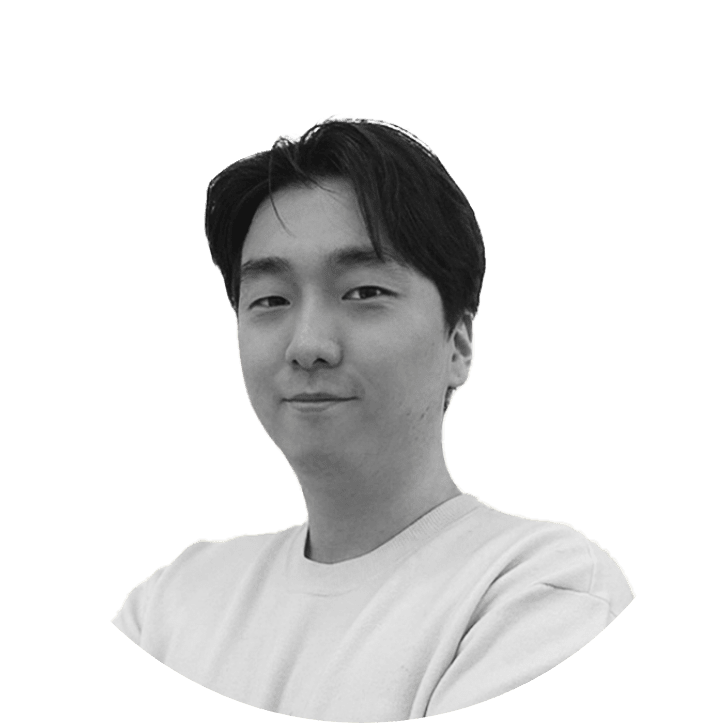
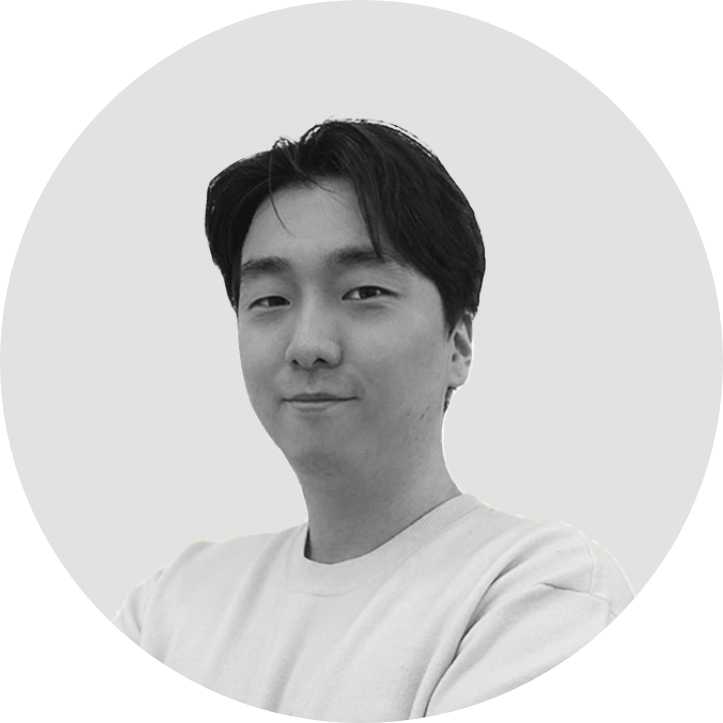
fix: 팀원 - 이미지 변경 / 중앙정렬 / 높이 변경

diff --git a/components/LandingPage/Body/Service/Service.tsx b/components/LandingPage/Body/Service/Service.tsx
@@ -86,7 +86,7 @@ export default function Service({ isPc }: Props) {
         </div>
       </div>
       <div className={cx("img_wrap")}>
-        {titles.map((title, idx) => (
+        {titles?.map((title, idx) => (
           <div key={idx} className={cx("hover")}>
             <ServiceCard
               key={title}

diff --git a/components/LandingPage/Body/Top/Top.tsx b/components/LandingPage/Body/Top/Top.tsx
@@ -1,6 +1,5 @@
 import styles from "./Top.module.scss";
 import className from "classnames/bind";
-import Image from "next/image";
 import { useMediaQuery } from "react-responsive";
 import { useEffect, useState } from "react";
 const cx = className.bind(styles);

diff --git a/components/LandingPage/Landing.tsx b/components/LandingPage/Landing.tsx
@@ -1,7 +1,3 @@
-import { useState } from "react";
-import Footer from "../Footer/Footer";
-import Header from "../Header/Header";
-import Side from "../Side/Side";
 import Body from "./Body/Body";
 import styles from "./Landing.module.scss";
 

diff --git a/components/Teams/Team/Member/Member.module.scss b/components/Teams/Team/Member/Member.module.scss
@@ -9,7 +9,7 @@
   }
   @include view("very_small") {
     flex-direction: row;
-    margin-bottom: 40px;
+    margin-bottom: 60px;
   }
   @include view("mobile") {
     flex-direction: row;
